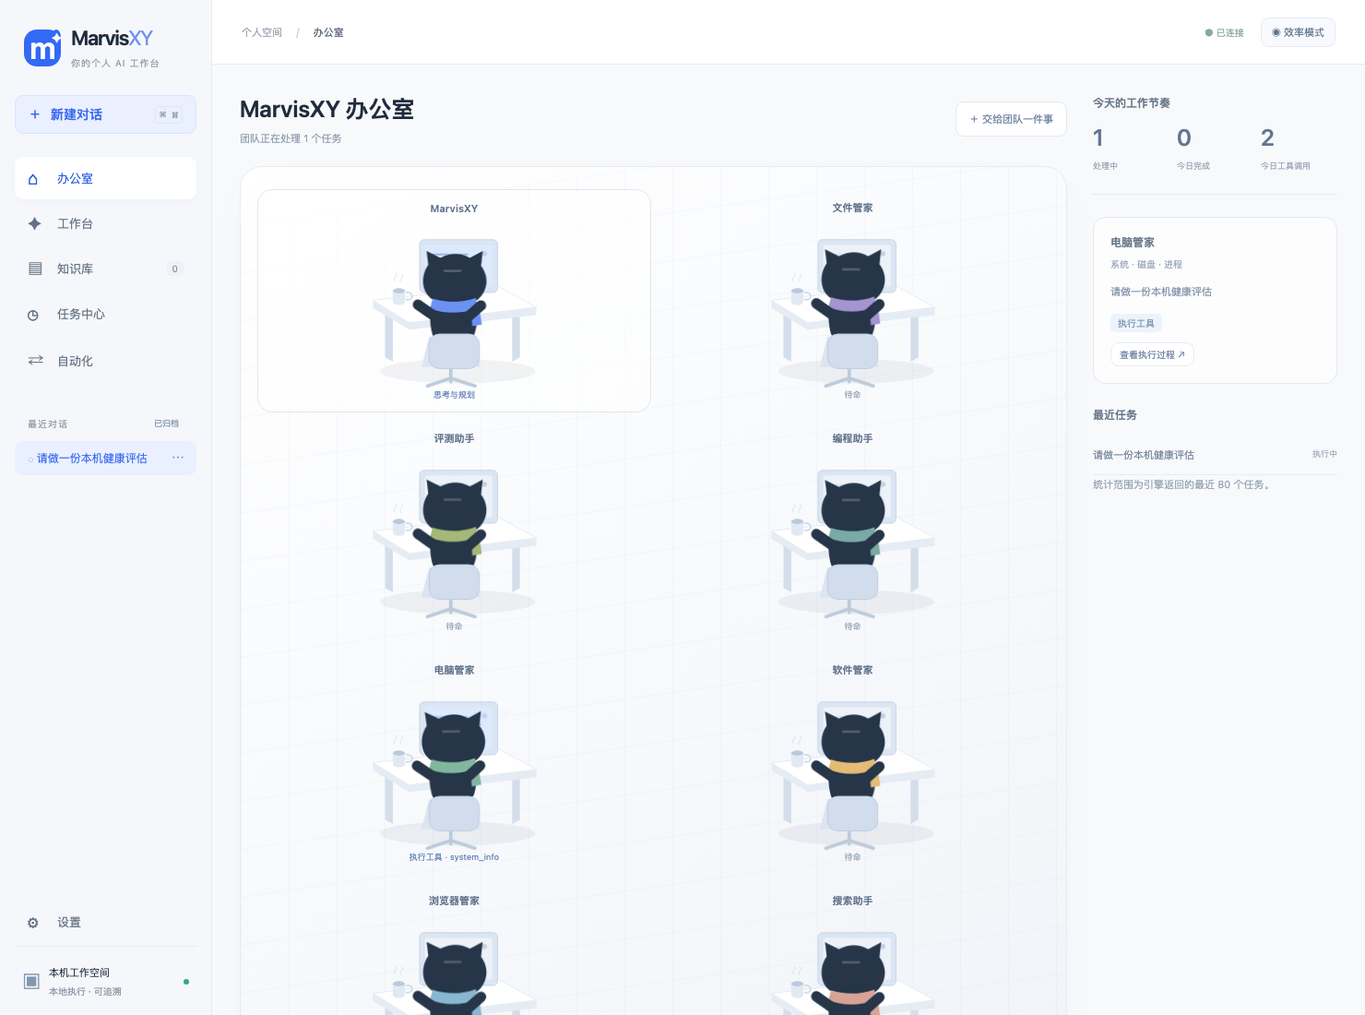
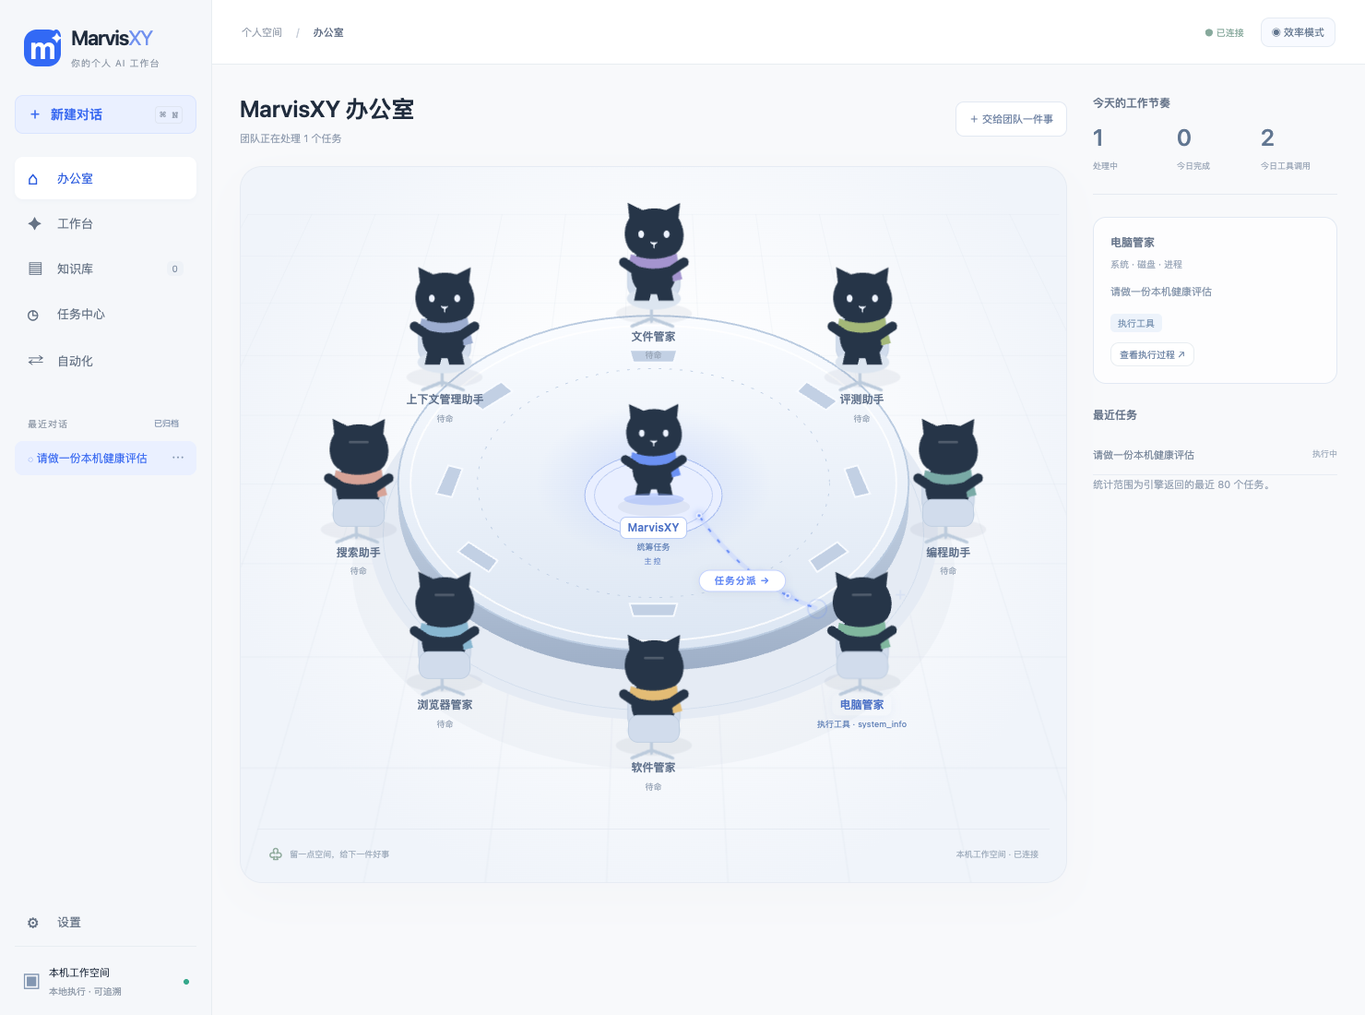
细分为“分析任务”“整理结果”,增加动画效果

diff --git a/ui/office.js b/ui/office.js
@@ -1,35 +1,102 @@
 'use strict';
 window.MarvisOffice = (() => {
  const names={main:'MarvisXY',computer:'电脑管家',file:'文件管家',app:'软件管家',browser:'浏览器管家',search:'搜索助手',coding:'编程助手',evaluation:'评测助手',context:'上下文管理助手'};
- const labels={idle:'待命',thinking:'思考与规划',working:'执行工具',waiting:'等待你确认',done:'任务完成',error:'任务异常',stopped:'任务已停止'};
- const drawing=`<svg viewBox="0 0 240 220" aria-hidden="true">
-  <ellipse cx="124" cy="187" rx="90" ry="14" class="desk-shadow"/>
-  <path d="M40 110v61l9 5v-59M196 110v61l-9 5v-59" class="desk-leg"/>
-  <path d="M26 105l145-16 44 24-147 18z" class="desk-top"/>
-  <path d="M26 105v9l42 25 147-17v-9L68 131z" class="desk-edge"/>
-  <path d="M112 88v13l-15 3 37 5 15-5-25-5V87" class="monitor-foot"/>
-  <rect x="80" y="35" width="90" height="61" rx="5" class="monitor"/>
-  <rect x="86" y="41" width="78" height="48" rx="2" class="monitor-screen"/>
-  <g class="screen-lines"><path d="M95 52h40M95 61h56M95 70h32M95 79h44"/></g>
-  <circle cx="155" cy="51" r="3" class="screen-light"/>
-  <path d="M49 94v12c0 6 14 6 14 0V94z" class="coffee"/><ellipse cx="56" cy="94" rx="7" ry="3" class="coffee-top"/>
-  <path d="M64 96c10-1 10 10 0 8" fill="none" class="coffee-handle"/>
-  <g class="coffee-steam"><path d="M52 86c-5-4 5-6 0-10M59 87c-5-4 5-6 0-10"/></g>
-  <path d="M82 182h68l-8-35H91z" class="chair-base"/>
-  <path d="M116 177v22m0-4-27 9m27-9 28 9" class="chair-legs"/>
-  <g class="mascot">
-   <path d="M104 144l-7 27h19l6-21 7 21h18l-9-32z" class="mascot-body"/>
-   <path d="M103 98c-12 9-13 30-8 47 8 17 39 17 48 0 6-15 3-38-9-46z" class="mascot-body"/>
-   <path d="M95 104c-12-7-15-26-5-40l-2-16 16 8c12-6 23-6 34 0l15-8-2 17c12 16 5 33-5 40z" class="mascot-head"/>
-   <path d="M95 103c15 5 34 5 50-1l2 12c-18 7-40 7-55 0z" class="scarf"/>
-   <path d="M139 111l2 24 11-2-4-25" class="scarf-tail scarf"/>
-   <path d="M98 124l-20-14m58 14 15-13" class="mascot-arms"/>
-   <path d="M109 71h18" class="mascot-mark"/>
+ const labels={idle:'待命',thinking:'分析任务',working:'执行工具',waiting:'等待你确认',done:'任务完成',error:'任务异常',stopped:'任务已停止'};
+ // A circle viewed from above projects to an ellipse. Seats share this projection.
+ const table=`<svg class="office-table" viewBox="0 0 900 720" aria-hidden="true">
+  <defs>
+   <linearGradient id="office-table-surface" x2="0" y2="1"><stop stop-color="#fafcff"/><stop offset="1" stop-color="#dce6f3"/></linearGradient>
+   <linearGradient id="office-table-rim" x2="0" y2="1"><stop stop-color="#c3d1e3"/><stop offset="1" stop-color="#9eafc7"/></linearGradient>
+   <radialGradient id="office-command-glow"><stop stop-color="#7c9eff" stop-opacity=".25"/><stop offset="1" stop-color="#7c9eff" stop-opacity="0"/></radialGradient>
+  </defs>
+  <ellipse cx="450" cy="438" rx="342" ry="227" fill="#bcc9dc" opacity=".12"/>
+  <ellipse cx="450" cy="398" rx="323" ry="211" fill="#e5ebf4"/>
+  <ellipse cx="450" cy="399" rx="307" ry="199" fill="none" stroke="#d4dfed"/>
+  <path d="M390 382v133q60 32 120 0V382" fill="#c3d0e2"/>
+  <ellipse cx="450" cy="513" rx="60" ry="19" fill="#b3c2d7"/>
+  <path d="M160 340v23a290 190 0 0 0 580 0v-23" fill="url(#office-table-rim)"/>
+  <ellipse cx="450" cy="340" rx="290" ry="190" fill="url(#office-table-surface)" stroke="#bacbe0" stroke-width="2"/>
+  <ellipse cx="450" cy="340" rx="276" ry="179" fill="none" stroke="#fff" stroke-width="2" opacity=".8"/>
+  <ellipse cx="450" cy="340" rx="200" ry="130" fill="none" stroke="#c2d1e5" stroke-dasharray="3 9"/>
+  <ellipse cx="450" cy="340" rx="134" ry="88" fill="url(#office-command-glow)"/>
+  <ellipse cx="450" cy="354" rx="78" ry="47" fill="#e9efff" stroke="#a6bbef"/>
+  <ellipse cx="450" cy="354" rx="67" ry="39" fill="none" stroke="#bdccf1"/>
+  <g fill="#c2d0e4" stroke="#f7faff" stroke-width="2">
+   <path d="M423 189h54l-4 14h-46z"/><path d="m624 225 35 22-13 10-33-21z"/>
+   <path d="m682 320 14 32-17 4-12-32z"/><path d="m627 428 32-21 12 11-35 23z"/>
+   <path d="M423 477h54l-4 14h-46z"/><path d="m228 418 12-11 33 21-10 13z"/>
+   <path d="m203 352 14-32 16 4-12 32z"/><path d="m242 247 35-22 13 11-34 21z"/>
   </g>
-  <rect x="91" y="144" width="58" height="40" rx="12" class="chair-back"/>
-  <g class="work-spark"><path d="M179 42v10m-5-5h10M69 61v8m-4-4h8"/></g>
  </svg>`;
+ function drawing(front=false,main=false){return `<svg viewBox="0 0 160 180" aria-hidden="true">
+  <ellipse cx="80" cy="154" rx="48" ry="13" class="desk-shadow"/>
+  ${main?'':`<path d="M77 139v25m0-4-25 10m25-10 27 10" class="chair-legs"/>
+  <rect x="47" y="77" width="66" height="59" rx="18" class="chair-back"/>
+  <ellipse cx="80" cy="135" rx="34" ry="14" class="chair-base"/>`}
+  <g class="mascot">
+   <path d="M61 110l-6 29h19l6-22 6 22h19l-6-29z" class="mascot-body"/>
+   <path d="M62 77c-13 13-13 35-5 45 11 12 35 12 46 0 8-13 6-35-6-45z" class="mascot-body"/>
+   <path d="M48 73c-7-12-6-27 1-37l-2-19 19 9c9-3 20-3 29 0l18-9-2 19c8 13 9 28 1 40-13 16-51 15-64-3z" class="mascot-head"/>
+   <path d="M51 81q29 12 58-1l1 12q-30 14-61 0z" class="scarf"/>
+   <path d="m101 91 3 24 12-3-7-23" class="scarf-tail scarf"/>
+   <path d="m60 103-18-12m58 12 18-12" class="mascot-arms"/>
+   ${front?`<g class="mascot-face"><ellipse cx="64" cy="56" rx="3" ry="4"/><ellipse cx="96" cy="56" rx="3" ry="4"/><path d="m76 66 4 3 4-3m-4 3v4"/></g>`:'<path d="M69 46h22" class="mascot-mark"/>'}
+  </g>
+  ${main?'<ellipse cx="80" cy="144" rx="40" ry="8" class="command-light"/>':front?'':'<rect x="48" y="116" width="64" height="34" rx="12" class="chair-back"/>'}
+  <g class="work-spark"><path d="M128 39v12m-6-6h12M29 65v8m-4-4h8"/></g>
+ </svg>`;}
  let initialized=false, selected='main';
+ const seats=new Map(), eventCursors=new Map();
+ const svgNS='http://www.w3.org/2000/svg';
+ function statusText(item){
+  if(item.mode==='working'&&item.tool==='agent_dispatch')return '分派任务';
+  if(item.mode==='thinking')return item.stage==='coordinating'?'统筹任务':item.stage==='reviewing'?'整理结果':item.stage==='context'?'整理上下文':labels.thinking;
+  return labels[item.mode];
+ }
+ function svgNode(tag,attrs={}){
+  const node=document.createElementNS(svgNS,tag);
+  for(const [key,value] of Object.entries(attrs))node.setAttribute(key,value);
+  return node;
+ }
+ function showFlow(agent,direction){
+  const seat=seats.get(agent),main=seats.get('main');
+  if(!seat||!main||agent==='main')return;
+  const returning=direction==='return',from=returning?seat:main,to=returning?main:seat;
+  const dx=to.x-from.x,dy=to.y-from.y,length=Math.hypot(dx,dy),ux=dx/length,uy=dy/length;
+  const start={x:from.x+ux*65,y:from.y+uy*65},end={x:to.x-ux*65,y:to.y-uy*65};
+  const mid={x:(start.x+end.x)/2-uy*28,y:(start.y+end.y)/2+ux*28};
+  const route=`M ${start.x} ${start.y} Q ${mid.x} ${mid.y} ${end.x} ${end.y}`;
+  const layer=$('#office-data-flows');
+  // Keep bursts legible and bound transient DOM even under many rapid handoffs.
+  while(layer.children.length>=8)layer.firstElementChild.remove();
+  const group=svgNode('g',{'class':'office-flow flow-'+direction,'data-agent':agent,'data-direction':direction});
+  group.append(svgNode('path',{d:route,'class':'flow-track'}),svgNode('path',{d:route,'class':'flow-stream'}));
+  for(let i=0;i<3;i++){
+   const dot=svgNode('circle',{r:i===0?4:2.5,'class':'flow-packet'});
+   dot.style.offsetPath=`path("${route}")`;dot.style.animationDelay=(-i*.35)+'s';group.append(dot);
+  }
+  group.append(svgNode('circle',{cx:end.x,cy:end.y,r:8,'class':'flow-arrival'}));
+  const badge=svgNode('g',{'class':'flow-badge',transform:`translate(${mid.x} ${mid.y})`});
+  badge.append(svgNode('rect',{x:-49,y:-12,width:98,height:24,rx:12}));
+  const label=svgNode('text',{'text-anchor':'middle',y:4});label.textContent=returning?'结果回传 →':'任务分派 →';badge.append(label);group.append(badge);
+  layer.append(group);
+  $('#office-flow-announcement').textContent=returning?`${names[agent]}已向主控返回任务结果`:`主控已向${names[agent]}分派任务`;
+  setTimeout(()=>group.remove(),4600);
+ }
+ function renderFlows(snapshot){
+  for(const task of snapshot.tasks){
+   const last=eventCursors.get(task.id),events=task.events||[];
+   for(const event of events){
+    // First view shows only fresh transfers, never replays an old task history.
+    if(last===undefined?Date.now()/1000-event.created>5:event.id<=last)continue;
+    if(event.kind==='agent_start')showFlow(event.content.agent,'dispatch');
+    else if(event.kind==='agent_result')showFlow(event.content.agent,'return');
+   }
+   if(events.length)eventCursors.set(task.id,events[events.length-1].id);
+  }
+  for(const id of eventCursors.keys())if(!snapshot.tasks.some(task=>task.id===id))eventCursors.delete(id);
+ }
+
  function role(tool='') {
   if(tool==='delivery_evaluate')return 'evaluation';if(tool.startsWith('code_'))return 'coding';
   if(tool==='knowledge_search'||tool==='web_search')return 'search';
@@ -40,16 +107,16 @@ window.MarvisOffice = (() => {
   const modes=Object.fromEntries(snapshot.agents.map(a=>[a.id,{mode:'idle',task:null,tool:''}]));
   const task=snapshot.tasks.find(t=>['running','waiting_approval'].includes(t.status));
   if(task){
-   let agent='main', tool='', phase='thinking';
+   let agent='main', tool='', phase='thinking',stage='analyzing';
    for(const event of task.events){
-    if(['context_compaction_start','context_model_start'].includes(event.kind)){agent='context';tool='';phase='thinking';}
-    else if(event.kind==='context_compaction'){agent=event.content.agent||'main';tool='';phase='thinking';}
-    else if(event.kind==='tool_start'){agent=event.content.agent||role(event.content.tool);tool=event.content.tool;phase='working';}
-    else if(['model_start','agent_start','tool_result','tool_error','rejected'].includes(event.kind)){agent=event.content.agent||'main';tool='';phase='thinking';}
-    else if(event.kind==='agent_result'){agent='main';tool='';phase='thinking';}
+    if(['context_compaction_start','context_model_start'].includes(event.kind)){agent='context';tool='';phase='thinking';stage='context';}
+    else if(event.kind==='context_compaction'){agent=event.content.agent||'main';tool='';phase='thinking';stage='analyzing';}
+    else if(event.kind==='tool_start'){agent=event.content.agent||role(event.content.tool);tool=event.content.tool;phase='working';stage='';}
+    else if(['model_start','agent_start','tool_result','tool_error','rejected'].includes(event.kind)){agent=event.content.agent||'main';tool='';phase='thinking';stage=['tool_result','tool_error','rejected'].includes(event.kind)?'reviewing':'analyzing';}
+    else if(event.kind==='agent_result'){agent='main';tool='';phase='thinking';stage='reviewing';}
    }
-   modes.main={mode:task.status==='waiting_approval'?'waiting':'thinking',task,tool:''};
-   if(agent!=='main'&&modes[agent])modes[agent]={mode:task.status==='waiting_approval'?'waiting':phase,task,tool};
+   modes.main={mode:task.status==='waiting_approval'?'waiting':agent==='main'?phase:'thinking',task,tool:agent==='main'?tool:'',stage:agent==='main'?stage:'coordinating'};
+   if(agent!=='main'&&modes[agent])modes[agent]={mode:task.status==='waiting_approval'?'waiting':phase,task,tool,stage};
   }else{
    const recent=snapshot.tasks.find(t=>['completed','failed','cancelled'].includes(t.status)&&Date.now()/1000-t.updated<5);
    if(recent)modes.main={mode:recent.status==='completed'?'done':recent.status==='cancelled'?'stopped':'error',task:recent,tool:''};
@@ -59,22 +126,35 @@ window.MarvisOffice = (() => {
  function init(snapshot) {
   if(initialized)return;initialized=true;
   const room=$('#office-stations');
+  room.innerHTML=table;
+  const flows=svgNode('svg',{id:'office-data-flows','class':'office-data-flows',viewBox:'0 0 900 720','aria-hidden':'true'});room.append(flows);
+  const announcement=el('span','office-flow-announcement');announcement.id='office-flow-announcement';announcement.setAttribute('role','status');room.append(announcement);
+  const assistants=snapshot.agents.filter(agent=>agent.id!=='main');
   for(const agent of snapshot.agents){
    const station=el('button','office-station agent-'+agent.id);station.type='button';station.dataset.agent=agent.id;
-   const art=el('div','station-art');art.innerHTML=drawing;
-   station.append(el('span','station-label',names[agent.id]||agent.name),art,el('span','station-status','待命'));
+   const index=assistants.indexOf(agent),angle=-Math.PI/2+index*Math.PI*2/assistants.length;
+   const isMain=agent.id==='main';
+   const x=isMain?450:450+335*Math.cos(angle),y=isMain?335:350+245*Math.sin(angle);
+   seats.set(agent.id,{x,y});
+   station.style.left=(x/900*100)+'%';station.style.top=(y/720*100)+'%';
+   station.style.zIndex=isMain?'3':'4';
+   station.classList.toggle('command-station',isMain);
+   const art=el('div','station-art');art.innerHTML=drawing(isMain||y<280,isMain);
+   station.append(art,el('span','station-label',names[agent.id]||agent.name),el('span','station-status','待命'));
+   if(isMain)station.append(el('span','command-caption','主控'));
    station.onclick=()=>{selected=agent.id;render(state);};room.append(station);
   }
  }
  function render(snapshot) {
   if(!snapshot)return;init(snapshot);
-  const modes=activity(snapshot);
+  const modes=activity(snapshot);renderFlows(snapshot);
   for(const station of document.querySelectorAll('.office-station')){
    const item=modes[station.dataset.agent];
    if(station.dataset.mode!==item.mode)station.dataset.mode=item.mode;
    station.classList.toggle('selected',station.dataset.agent===selected);
-   station.querySelector('.station-status').textContent=labels[item.mode]+(item.tool?' · '+item.tool:'');
-   station.setAttribute('aria-label',(names[station.dataset.agent]||'管家')+' · '+labels[item.mode]);
+   station.setAttribute('aria-pressed',String(station.dataset.agent===selected));
+   station.querySelector('.station-status').textContent=statusText(item)+(item.tool?' · '+item.tool:'');
+   station.setAttribute('aria-label',(names[station.dataset.agent]||'管家')+' · '+statusText(item));
   }
   const active=snapshot.tasks.filter(t=>['queued','running','waiting_approval'].includes(t.status));
   const today=new Date();today.setHours(0,0,0,0);
@@ -85,7 +165,7 @@ window.MarvisOffice = (() => {
   $('#office-room-state').textContent=active.length?'团队正在处理 '+active.length+' 个任务':'团队已就绪，等待你的下一个目标';
   const agent=snapshot.agents.find(a=>a.id===selected),item=modes[selected];
   $('#office-agent-name').textContent=names[selected];$('#office-agent-role').textContent=agent.role;
-  $('#office-agent-state').textContent=labels[item.mode];
+  $('#office-agent-state').textContent=statusText(item);
   $('#office-agent-work').textContent=item.task?item.task.prompt:(agent.guidance||'没有正在执行的任务。点击工位可以查看各管家的状态。');
   const action=$('#office-agent-open');action.hidden=!item.task;action.onclick=()=>safe(async()=>{session=item.task.session_id;showPage('chat');await renderMessages();});
   const list=$('#office-recent');

diff --git a/ui/office.css b/ui/office.css
@@ -1,16 +1,23 @@
 #office.active{display:block;background:#f8f9fb}.office-layout{display:grid;grid-template-columns:minmax(0,1fr) 265px;gap:28px;padding:30px;max-width:1300px;margin:auto}
 .office-title{display:flex;justify-content:space-between;align-items:center;margin-bottom:22px}.office-title h2{font-size:25px;font-weight:600;margin:0 0 6px}.office-title p{font-size:11px;color:#95a1b3;margin:0}.office-title button{font-size:11px;color:#7285a5;background:#fff;border-color:#e2e8f2}
-.office-floor{position:relative;border:1px solid #e6ebf3;border-radius:24px;background:linear-gradient(145deg,#fff,#f0f3f8);overflow:hidden;padding:24px 18px 14px;box-shadow:0 16px 50px #283b5805}
-.office-floor:before{content:'';position:absolute;inset:0;background-image:linear-gradient(#d3dce52c 1px,transparent 1px),linear-gradient(90deg,#d3dce52c 1px,transparent 1px);background-size:52px 52px;transform:skewY(-8deg);pointer-events:none}
-.office-stations{position:relative;display:grid;grid-template-columns:repeat(2,minmax(0,1fr));gap:8px 5px}
-.office-station{position:relative;border:1px solid transparent;background:transparent;border-radius:16px;padding:9px 5px 12px;transition:background .25s,border-color .25s;min-width:0}.office-station:hover{background:#ffffff9c;border-color:#dce5f4}.office-station.selected{background:#ffffff80;border-color:#dfe7f3}
-.station-label{font-size:11px;font-weight:600;color:#62738d;position:relative;z-index:1}.station-art{max-width:225px;margin:-6px auto -12px}.station-art svg{display:block;width:100%;height:auto;overflow:visible}
-.station-status{font-size:9px;color:#98a5b7;display:block;overflow:hidden;text-overflow:ellipsis;white-space:nowrap}
+.office-floor{position:relative;border:1px solid #e6ebf3;border-radius:24px;background:radial-gradient(ellipse at 50% 42%,#fff 15%,#f0f4fa 75%);overflow:hidden;padding:18px 18px 14px;box-shadow:0 16px 50px #283b5805}
+.office-floor:before{content:'';position:absolute;inset:0;background-image:linear-gradient(#d3dce530 1px,transparent 1px),linear-gradient(90deg,#d3dce530 1px,transparent 1px);background-size:70px 70px;transform:perspective(600px) rotateX(28deg) scale(1.4);pointer-events:none}
+.office-stations{position:relative;width:100%;aspect-ratio:900/720;isolation:isolate}
+.office-table{position:absolute;inset:0;width:100%;height:100%;z-index:2;pointer-events:none}
+.office-station{position:absolute;transform:translate(-50%,-50%);width:16%;border:0;background:transparent;border-radius:16px;padding:0;min-width:0;transition:background .25s;display:flex;flex-direction:column;align-items:center;line-height:1.3}
+.office-station:hover{background:#ffffff80}.office-station.selected{background:transparent}
+.office-station:focus-visible{outline:2px solid #7b9bf3;outline-offset:4px}
+.station-label{font-size:clamp(9px,1vw,12px);font-weight:600;color:#62738d;position:relative;z-index:1;white-space:nowrap;padding:3px 7px;border:1px solid transparent;border-radius:7px;transition:background .25s,border-color .25s}
+.office-station.selected .station-label{background:#fff;border-color:#b8cbf6;color:#4e73c7;box-shadow:0 3px 12px #577dca12}
+.station-art{width:100%;max-width:145px;margin:0 auto -10px}.station-art svg{display:block;width:100%;height:auto;overflow:visible}
+.station-status{font-size:9px;color:#98a5b7;display:block;max-width:100%;overflow:hidden;text-overflow:ellipsis;white-space:nowrap;margin-top:3px;padding:0 3px}
+.command-station{width:17%}.command-station .station-art{max-width:130px}.command-station .station-label{color:#4e73c7}.command-caption{font-size:8px;letter-spacing:2px;color:#7693ce;margin-top:5px}
+.command-light{fill:#89a7fa;opacity:.4}.mascot-face{fill:#edf3ff;stroke:#edf3ff;stroke-width:1.5;stroke-linecap:round}
 .desk-shadow{fill:#233454;opacity:.06}.desk-leg{fill:#d4deeb}.desk-top{fill:#fff;stroke:#e5ebf2;stroke-width:1}.desk-edge{fill:#e6ecf4}.monitor-foot{fill:#cbd7e5}.monitor{fill:#dce6f3;stroke:#c4d2e5;stroke-width:1}.monitor-screen{fill:#edf2f9;transition:fill .5s}.screen-lines{stroke:#c1d0e4;stroke-width:2;stroke-linecap:round;opacity:.45}.screen-light{fill:#c4d3e6}
 .coffee{fill:#e1e9f3}.coffee-top{fill:#bac9db}.coffee-handle{stroke:#d0ddec;stroke-width:2}.coffee-steam{fill:none;stroke:#c1cdda;stroke-width:1;opacity:.25}
 .chair-base{fill:#dce5f0}.chair-legs{fill:none;stroke:#bccbdc;stroke-width:4;stroke-linecap:round}.chair-back{fill:#d1dcec;stroke:#becde0;stroke-width:1}
 .mascot-body,.mascot-head{fill:#263548}.mascot-arms{fill:none;stroke:#263548;stroke-width:12;stroke-linecap:round}.mascot-mark{stroke:#fff;stroke-width:3;stroke-linecap:round;opacity:.2}.scarf{fill:#6b91f3}.work-spark{fill:none;stroke:#9db6ed;stroke-width:2;opacity:0}
-.agent-computer .scarf{fill:#80b79e}.agent-file .scarf{fill:#a494cf}.agent-app .scarf{fill:#e3bc75}.agent-browser .scarf{fill:#88b7d1}.agent-search .scarf{fill:#d7a397}
+.agent-computer .scarf{fill:#80b79e}.agent-file .scarf{fill:#a494cf}.agent-app .scarf{fill:#e3bc75}.agent-browser .scarf{fill:#88b7d1}.agent-search .scarf{fill:#d7a397}.agent-context .scarf{fill:#9cadd0}
 .mascot{transform-box:fill-box;transform-origin:center bottom;animation:office-breathe 5s ease-in-out infinite}.office-station:nth-child(2n) .mascot{animation-delay:-2s}.coffee-steam{animation:office-steam 4s ease-in-out infinite}
 .office-station[data-mode=thinking] .mascot{animation:office-think 1.6s ease-in-out infinite}.office-station[data-mode=working] .mascot{animation:office-type .65s ease-in-out infinite}
 .office-station[data-mode=thinking] .monitor-screen,.office-station[data-mode=working] .monitor-screen{fill:#dce9ff}.office-station[data-mode=thinking] .screen-lines,.office-station[data-mode=working] .screen-lines{stroke:#7b9bd3;opacity:.8;animation:office-screen 1.4s ease-in-out infinite}
@@ -23,12 +30,28 @@
 .office-task{display:flex;justify-content:space-between;gap:12px;padding:13px 0;border:0;border-bottom:1px solid #e8edf4;border-radius:0;background:transparent;width:100%;text-align:left}.office-task span{font-size:11px;color:#7d8b9e;white-space:nowrap;overflow:hidden;text-overflow:ellipsis;flex:1}.office-task small{font-size:9px;color:#a3afbf;flex-shrink:0}
 body.office-view .team-panel{display:none}body.office-view{grid-template-columns:230px minmax(0,1fr)}
 @keyframes office-breathe{50%{transform:translateY(-1.5px) scaleY(1.015)}}@keyframes office-think{50%{transform:rotate(-4deg) translateY(-2px)}}@keyframes office-type{25%{transform:translateY(-2px) rotate(-1deg)}75%{transform:translateY(-1px) rotate(1deg)}}@keyframes office-screen{50%{opacity:.3}}@keyframes office-steam{50%{opacity:.6;transform:translateY(-3px)}}@keyframes office-spark{50%{opacity:.7;transform:translateY(-3px)}}@keyframes office-cheer{50%{transform:translateY(-7px) rotate(3deg)}}
-@media(min-width:1500px){.office-layout{grid-template-columns:minmax(0,1fr) 320px;padding:42px;gap:45px}.station-art{max-width:250px}}
+@media(min-width:1500px){.office-layout{grid-template-columns:minmax(0,1fr) 320px;padding:42px;gap:45px}.station-art{max-width:155px}}
 @media(max-width:900px){.office-layout{grid-template-columns:minmax(0,1fr);padding:22px}.office-insights{display:grid;grid-template-columns:1fr 1fr;gap:20px}.office-insights>h3,.office-stats{grid-column:1/-1}.office-agent-card{margin:0}.office-title h2{font-size:22px}}
-@media(max-width:650px){body.office-view{grid-template-columns:60px minmax(0,1fr)}.office-layout{padding:20px 12px;gap:20px}.office-floor{padding:15px 7px 12px}.office-stations{gap:5px}.station-label{font-size:10px}.station-status{font-size:8px}.office-insights{display:block}.office-agent-card{margin-bottom:22px}.office-title{align-items:flex-start}.office-title button{padding:5px 7px;font-size:9px}.office-title h2{font-size:20px}.office-title p{font-size:10px}.office-lounge{padding:13px 5px 3px}.office-lounge>span:last-child{display:none}}
+@media(max-width:650px){body.office-view{grid-template-columns:60px minmax(0,1fr)}.office-layout{padding:20px 12px;gap:20px}.office-floor{padding:15px 7px 12px;overflow-x:auto}.office-stations{min-width:560px}.station-label{font-size:10px}.station-status{font-size:8px}.office-insights{display:block}.office-agent-card{margin-bottom:22px}.office-title{align-items:flex-start}.office-title button{padding:5px 7px;font-size:9px}.office-title h2{font-size:20px}.office-title p{font-size:10px}.office-lounge{padding:13px 5px 3px}.office-lounge>span:last-child{display:none}}
 #office:not(.active) *{animation-play-state:paused!important}
 @media(prefers-reduced-motion:reduce){#office *{animation:none!important;transition:none!important}}
 
 .agent-coding .scarf{fill:#79aaa6}
 
 .agent-evaluation .scarf{fill:#a4b878}
+
+.office-data-flows{position:absolute;inset:0;width:100%;height:100%;z-index:5;pointer-events:none;overflow:visible}
+.office-flow{--flow-color:#678cf5;--flow-soft:#c1d0ff;color:var(--flow-color);animation:office-flow-life 4.5s ease both}
+.office-flow.flow-return{--flow-color:#49a99a;--flow-soft:#b9e4da}
+.flow-track{fill:none;stroke:var(--flow-soft);stroke-width:5;opacity:.45}
+.flow-stream{fill:none;stroke:var(--flow-color);stroke-width:2;stroke-linecap:round;stroke-dasharray:3 13;animation:office-flow-stream .8s linear infinite;filter:drop-shadow(0 0 3px var(--flow-soft))}
+.flow-packet{fill:var(--flow-color);stroke:#fff;stroke-width:1.5;filter:drop-shadow(0 0 4px var(--flow-color));offset-distance:0%;animation:office-flow-packet 1.6s linear infinite}
+.flow-arrival{fill:none;stroke:var(--flow-color);stroke-width:1.5;transform-box:fill-box;transform-origin:center;animation:office-flow-arrival 1.6s ease-out infinite}
+.flow-badge rect{fill:#fff;stroke:var(--flow-soft);stroke-width:1;filter:drop-shadow(0 2px 5px #26385212)}
+.flow-badge text{fill:var(--flow-color);font-size:11px;font-weight:600;letter-spacing:1px}
+.office-flow-announcement{position:absolute;width:1px;height:1px;padding:0;margin:-1px;overflow:hidden;clip-path:inset(50%);white-space:nowrap}
+@keyframes office-flow-life{0%{opacity:0}10%,80%{opacity:1}100%{opacity:0}}
+@keyframes office-flow-stream{to{stroke-dashoffset:-32}}
+@keyframes office-flow-packet{to{offset-distance:100%}}
+@keyframes office-flow-arrival{0%{opacity:.8;transform:scale(.4)}100%{opacity:0;transform:scale(1.6)}}
+@media(prefers-reduced-motion:reduce){.flow-packet,.flow-arrival{display:none}.flow-stream{stroke-dasharray:none}}
